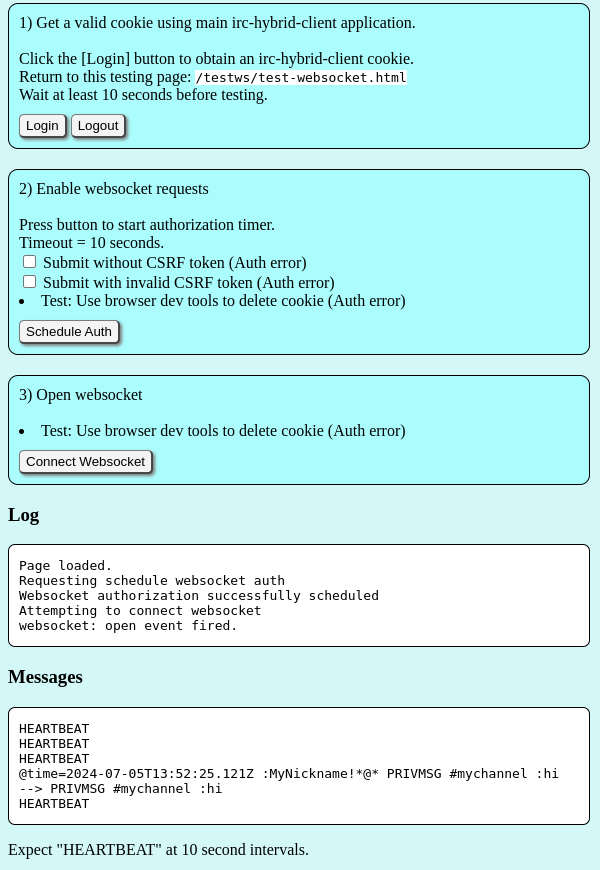
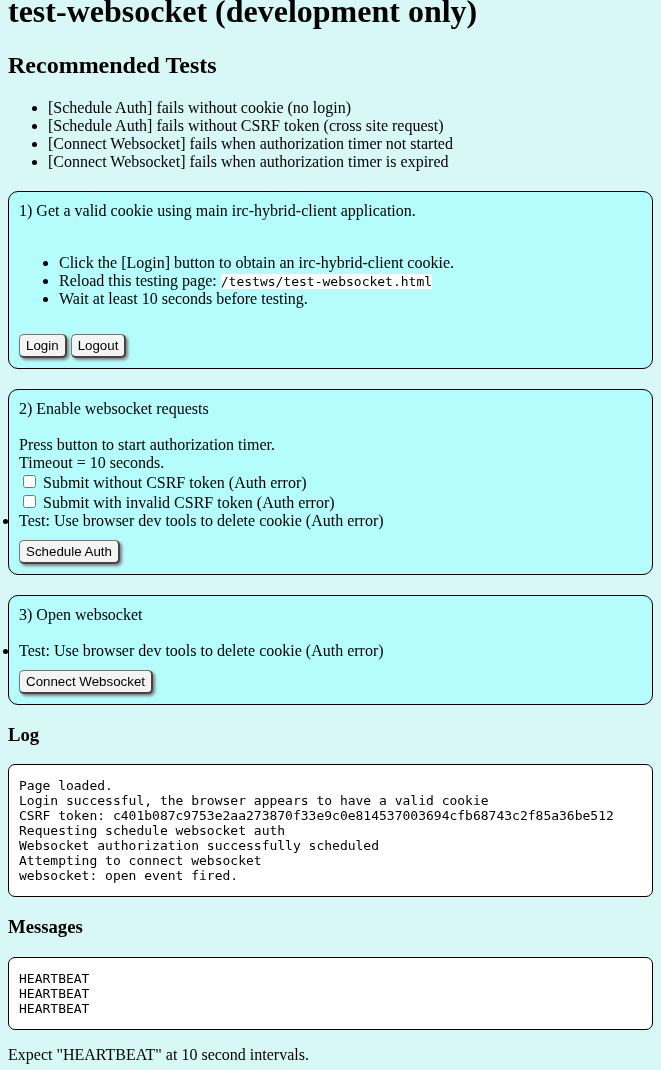
NPM package for CSRF protection was changed from @dr.pogodin/csurf to csrf-sync

diff --git a/docs/api.html b/docs/api.html
@@ -157,7 +157,8 @@
           A malicious page would attempt to trick a user to clicking an embedded form causing
           data to be submitted to a different web site where the user previously obtained a valid cookie. 
           A CSRF token is a random nonce that is embedded into the HTML of a web page. 
-          It changes each time the page is reloaded to a new random value.
+          It changes each time a new session and cookie are authorized.
+          The CSRF token is stored in the web server as part of the session meta-data.
         </p>
         <p>
           The hrc-hybrid-client web server requires CSRF tokens for HTTP methods 
@@ -167,7 +168,7 @@
         </p>
 <div class="pre-div"><pre>
   &lt;head&gt;
-    &lt;meta name="csrf-token" content="ob1P2QF3-bBXabc8At9xxiJyC2I44sAbjgsA"&gt;
[1 lines of base64/hex data omitted]
   &lt;/head&gt;
 </pre></div>
 
@@ -177,7 +178,7 @@
         </p>
 <div class="pre-div"><pre>
 "accept": "application/json",
-"csrf-token": "ob1P2QF3-bBXabc8At9xxiJyC2I44sAbjgsA",
[1 lines of base64/hex data omitted]
 "content-type": "application/json",
 </pre></div>
         
@@ -1737,7 +1738,7 @@ http://localhost:3000/testws/test-websocket.html
           <q> server/testws</q> folder.
         </p>
 
-        <img src=images/websocket-trace.png width="600" height="870"alt="Websocket Example">
+        <img src=images/websocket-trace.png width="661" height="1070"alt="Websocket Example">
 
         <h2>Bruno API Client Setup</h2>
         <p>

diff --git a/server/testws/html/test-websocket.js b/server/testws/html/test-websocket.js
@@ -75,7 +75,7 @@ function initWebSocketAuth () {
   if (!document.getElementById('noCsrfTokenCheckbox').checked) {
     if (document.getElementById('invalidCsrfTokenCheckbox').checked) {
       // This is a random generated CSRF token that will not match session storage
-      fetchOptions.headers['CSRF-Token'] = '0agVm341bCin1sfG9gF9ocYsdW8';
[1 lines of base64/hex data omitted]
     } else {
       fetchOptions.headers['CSRF-Token'] = csrfToken;
     }
@@ -190,3 +190,9 @@ document.getElementById('sendUnexpectedMessage').addEventListener('click', funct
 });
 
 logMessage('Page loaded.');
+if (csrfToken && csrfToken.length > 0) {
+  logMessage('Login successful, the browser appears to have a valid cookie');
+  logMessage('CSRF token: ' + csrfToken);
+} else {
+  logMessage('Apparently not logged in, try refresh the page after login.')
+}

diff --git a/server/testws/html/test-websocket.html b/server/testws/html/test-websocket.html
@@ -21,9 +21,11 @@
     <div class="border-div">
       <div>
         1) Get a valid cookie using main irc-hybrid-client application.<br><br>
-        Click the [Login] button to obtain an irc-hybrid-client cookie.<br>
-        Return to this testing page: <code> /testws/test-websocket.html</code><br>
-        Wait at least 10 seconds before testing.
+        <ul>
+          <li>Click the [Login] button to obtain an irc-hybrid-client cookie.</li>
+          <li>Reload this testing page: <code> /testws/test-websocket.html</code></li>
+          <li>Wait at least 10 seconds before testing.</li>
+        </ul>
       </div>
       <div class="vs10"></div>
       <a href="/login"><button>Login</button></a>

diff --git a/CHANGELOG.md b/CHANGELOG.md
@@ -13,6 +13,26 @@ When this is rolled out, all configuration will employ environment variables and
 
 ---
 
+## Next
+
+- CSRF Middleware changed
+
+The npm package for CSRF protection was changed from "@dr.pogodin/csurf" to "csrf-sync".
+
+- The change involved a general refactoring of CSRF protection in two files:
+  - server/webserver.mjs (Inserting CSRF token into webclient.html, and CSRF protection middleware for CSRF protected routes)
+  - server/middlewares/user-authenticate.mjs (insert CSRF token to login form, and preserving session data after regenerating session.)
+- The general process is as follows:
+  - Removed NPM package `@dr.pogodin/csurf` and installed `csrf-sync` package
+  - Defined custom header name `csrf-token` and body property `_csrf` to be consistent with the previous csurf module.
+  - For CSRF protected routes, the csurf middleware `csrfProtection` replaced with csrf-sync middleware `csrfSynchronisedProtection`
+  - csurf token function `req.csrfToken()` replaced with csrf-sync function `generateToken(req, false)`
+- Optional websocket test web page was refactored to accommodate csrf-sync middleware (used only for debugging, see server/testws/README.md)
+- Updated /docs/api.html related to CSRF token websocket authentication and API testing.
+- The irc-hybrid-client tests in git repository irc-hybrid-client-dev-tools were refactored to accommodate csrf-sync middleware
+
+- Logging change: When unexpected websocket messages are received by the webserver, the websocket message contents are no longer output to console.log, only a generic error message.
+
 ## [v2.2.11](https://github.com/cotarr/irc-hybrid-client/releases/tag/v2.2.10) 2026-10-23
 
 - Run npm audit fix to clear npm audit warning.

diff --git a/server/testws/README.md b/server/testws/README.md
@@ -22,7 +22,7 @@ This temporary web page is intended to be used to confirm the websocket server i
 
 * Browser attempts POST request to /irc/wsauth
 * Session cookie validated by express-session.
-* The CSRF token is validated by csruf middleware.
+* The CSRF token is validated by csrf-sync middleware.
 * Cookie value and +10 second expiry setup for subsequent websocket connection.
 * Browser attempts wss:// websocket request containing valid cookie.
 * Cookie from wss:// websocket upgrade request is validated.
